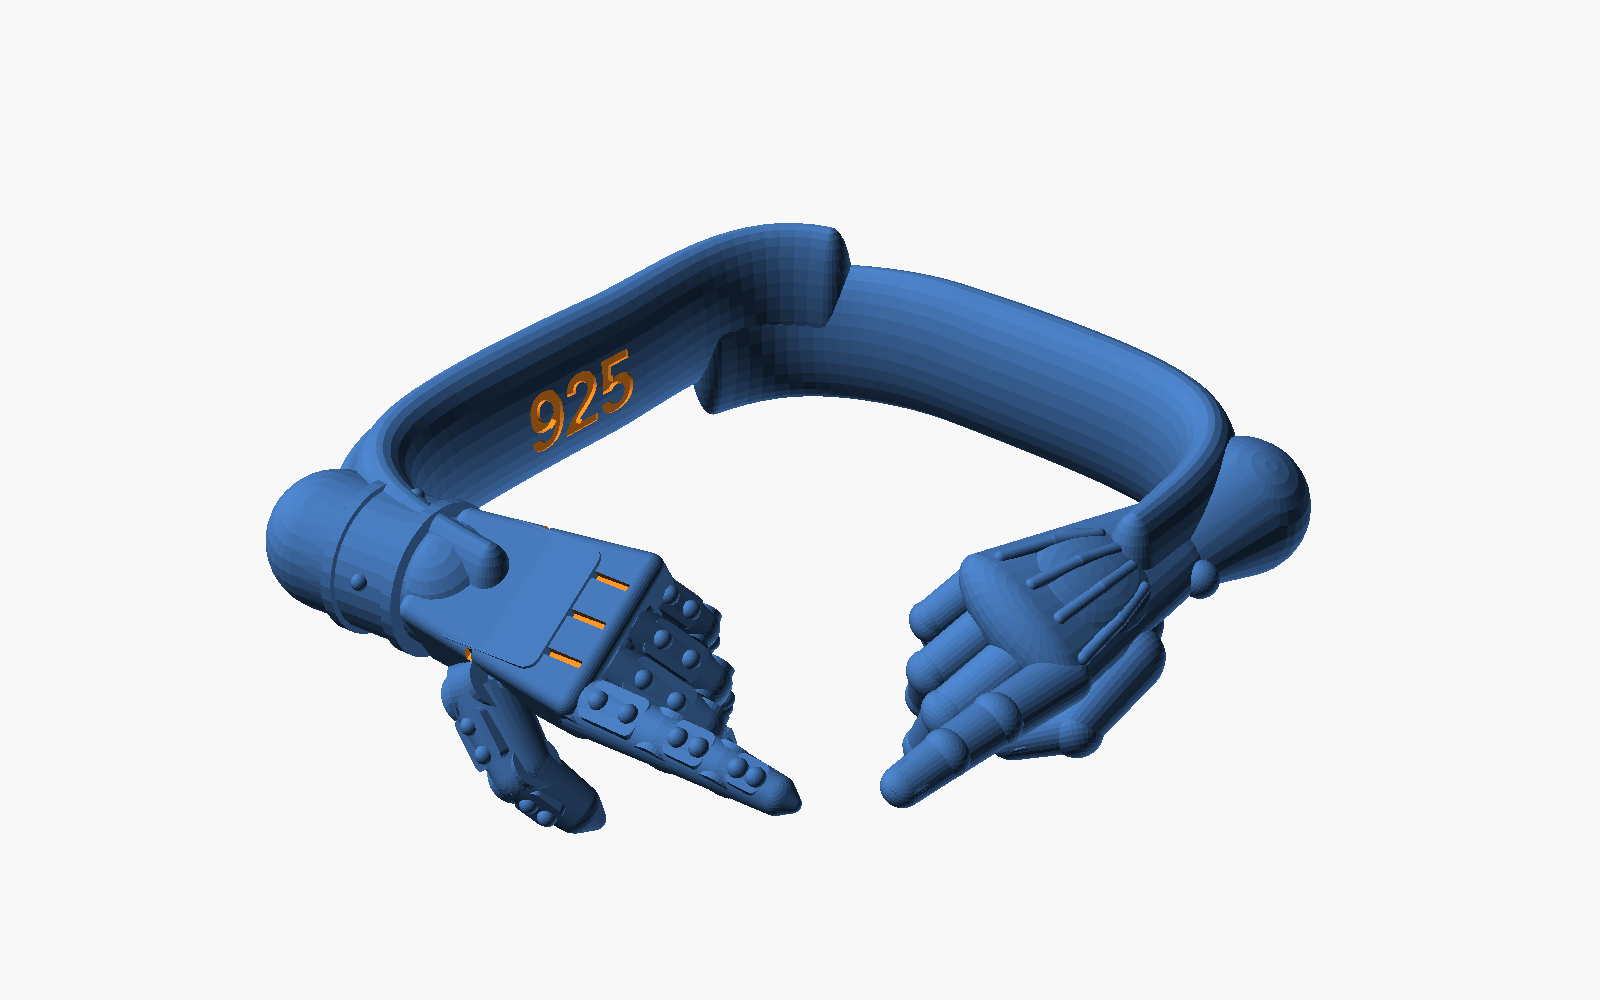
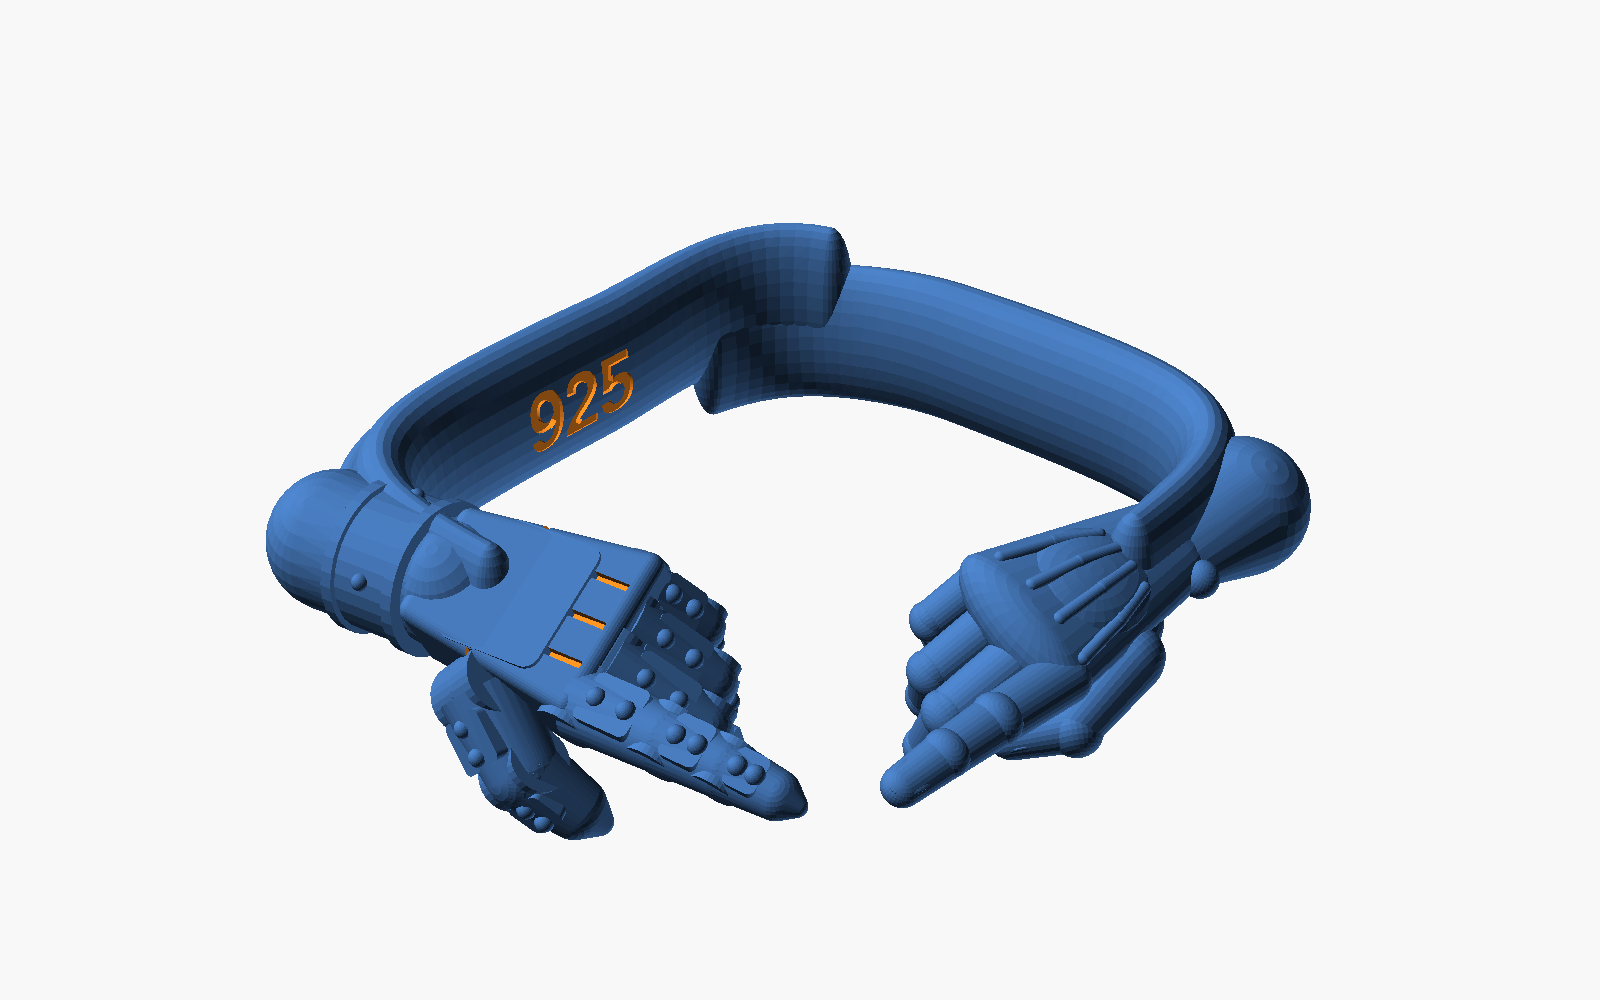
tune(cad): iterate the ring preset against the reference photo
Four silver-render comparison rounds: chunkier 2.7 x 2.9 mm oval band,
deeper hammer marks, hands aimed more directly across a 116 degree opening,
tighter fist, stouter robot fingers, softer human wrist. Adds part="hands"
for fast partial exports used by the comparison loop.

Claude-Session: https://claude.ai/code/session_01RsA5ip4f8sea9xDVrZWY8N

Changed region(s): [[0.25, 0.558, 0.5, 0.837]]

diff --git a/cad/creation_cuff/README.md b/cad/creation_cuff/README.md
@@ -93,23 +93,23 @@ openscad -o my_cuff.stl -D '$fn=48' -D 'preset="custom"' \
 | Parameter | Bangle | Ring | Meaning |
 |---|---|---|---|
 | `preset` | `"bangle"` | `"ring"` | `"custom"` uses the `custom_*` values below |
-| `part` | `"assembly"` | | `"band"`, `"human_hand"`, `"robot_hand"` export one piece |
+| `part` | `"assembly"` | | `"band"`, `"human_hand"`, `"robot_hand"` export one piece; `"hands"` both hands in place without the band |
 | `custom_inner_diameter` | 62 | 17.3 | Inside diameter at the thin back of the band |
-| `custom_band_thickness` | 5 | 2.2 | Radial thickness of the band at the back |
-| `custom_band_width` | 5 | 2.8 | Axial width of the band at the back (equal to thickness for a round band) |
+| `custom_band_thickness` | 5 | 2.7 | Radial thickness of the band at the back |
+| `custom_band_width` | 5 | 2.9 | Axial width of the band at the back (equal to thickness for a round band) |
 | `custom_band_swell` | 8 | 3.3 | Diameter of the bulb the robot hand grows out of |
 | `custom_human_end` | `"bulb"` | `"forearm"` | Human side ends in a matching bulb, or the band tapers into the forearm |
 | `custom_dimples` | 0 | 96 | Hammer marks planished into the outside of the band (each is a boolean, so they cost render time) |
-| `dimple_size`, `dimple_depth` | 0.8, 0.12 | | Dimple radius and depth as fractions of the band's radial half-thickness |
-| `custom_gap_angle` | 95° | 108° | Opening between the band ends; the hands are sized to fill it |
+| `dimple_size`, `dimple_depth` | 1.0, 0.2 | | Dimple radius and depth as fractions of the band's radial half-thickness |
+| `custom_gap_angle` | 95° | 116° | Opening between the band ends; the hands are sized to fill it |
 | `custom_tip_gap` | 3 | 0.8 | Space left between the two fingertips |
-| `custom_finger_thickness` | 1.0 | 1.15 | Multiplier on finger diameters; the ring's fingers are about 1 mm like the reference |
-| `wrist_bend` | 0.55 | | 0 = hands continue the band's curve, 1 = they point straight across; the hands are lengthened so the tips still meet |
+| `custom_finger_thickness` | 1.0 | 1.15 | Multiplier on finger diameters; the ring's human fingers are about 1 mm like the reference, the robot's are 1.25× stouter |
+| `wrist_bend` | 0.7 | | 0 = hands continue the band's curve, 1 = they point straight across; the hands are lengthened so the tips still meet |
 | `hand_pitch` | 8° | | Droop of the hands below the band plane |
 | `hand_roll` | 0° | | Twist of each hand about its forearm |
-| `finger_curl` | 1.25 | | Scales how tightly the three tucked fingers curl |
+| `finger_curl` | 1.4 | | Scales how tightly the three tucked fingers curl |
 | `swell_span` | 45° | | Length of band, per side, over which it fattens into the wrist |
-| `hammer` | 0.06 | | Soft organic undulation of the band's outer surface, as a fraction of its radius (0 = perfectly even) |
+| `hammer` | 0.08 | | Soft organic undulation of the band's outer surface, as a fraction of its radius (0 = perfectly even) |
 | `$fn` | 28 | | Facets per circle; use 48–64 for the final export |
 
 The hands are **derived**: each one heads out along the band's tangent, bent
@@ -167,6 +167,15 @@ grows outward only, so the fit is not affected by it.
   *Import Mesh* + *Mesh to BRep* tools in Fusion 360. The model is a
   faceted solid by nature, so bump `$fn` before doing this.
 * **3MF / OBJ**: OpenSCAD exports these directly (`-o file.3mf`).
+
+## Matching the reference
+
+The ring preset was tuned by rendering the model in silver from the photo's
+angle and comparing side by side, four rounds: band girth and section,
+hammer depth, how directly the hands aim across the opening, fist tightness,
+finger gauge (human about 1 mm, robot stouter). Re-run that loop after any
+change with `part="band"` and `part="hands"` exported in parallel at a low
+`$fn`; the two STLs concatenate straight into a viewer.
 
 ## Regenerating
 
